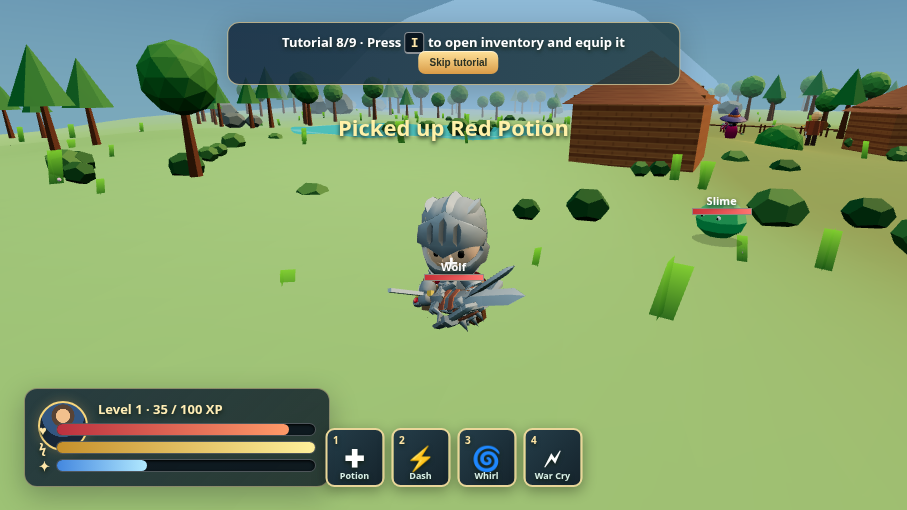
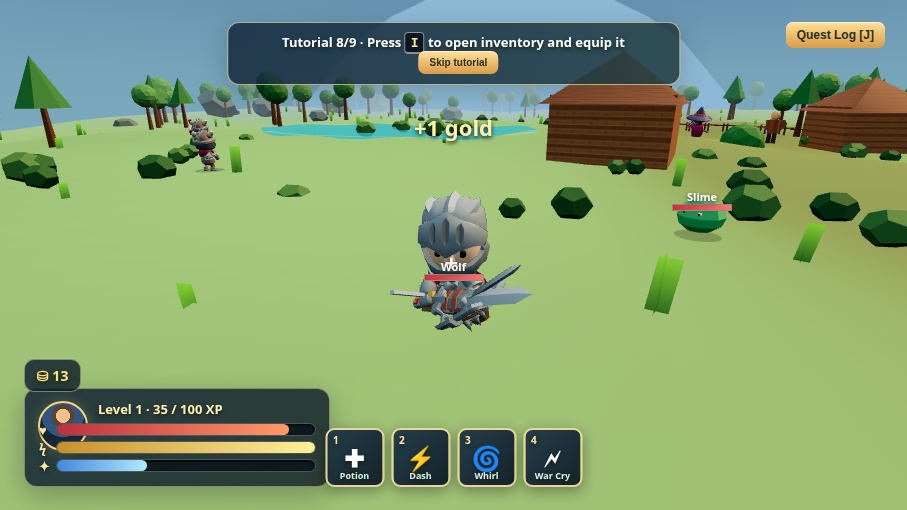
qa: M3 proof section and shop/quest HUD screenshots

diff --git a/qa/M1_PROOF.md b/qa/M1_PROOF.md
@@ -53,3 +53,29 @@ All tests ran against `dist` on the isolated local port `8701`, using `/usr/bin/
 ## Screenshots
 
 - [Combat with War Cry + Whirlwind, cooldown UI, stagger stars — 907×510](screenshots/combat-907.png)
+
+---
+
+# Milestone 3 — progression & economy (appended proof)
+
+## Delivered
+
+- **Merchant shop**: new NPC *Merchant Odessa* at a hand-built market stall (counter, four posts, tilted red awning, wares) beside the west cabin (−15.5, 9). `E` within 3.4m opens a shop panel in the inventory visual style. **Buy**: Red Potion 15g, Sunsteel Sword 120g, Tower Shield 80g (blocked hits deal 2 dmg instead of 3), Vale Armor Mk II 100g (+25 max HP, auto-equips). **Sell**: any inventory item at 40% of value (potion 6g, Iron Sword 16g, Sunsteel 48g…); equipped last-copy weapon is protected. Fully mouse-driven; closes via button, `I`/`Tab`, `Esc`, or `Backspace`.
+- **Quest system** (post-tutorial loop): 5 chained quests auto-started after the tutorial — Q1 *Pest Control* (5 Slimes → 30g+40XP), Q2 *Wolf Pack* (3 Wolves → 50g+80XP), Q3 *Bone Collector* (2 Skeletons → 60g+100XP; 2 new skeleton spawns added on the east side at (34,−26)/(39,−20)), Q4 *The Alpha* (Alpha Wolf → 150g+200XP + "Title unlocked: WOLFSBANE" toast), Q5 *Ready for the Depths* (reach level 5 → 100g + "The cave entrance rumbles..." M4 teaser). Kills auto-tracked; live progress in the top HUD bar ("Pest Control 3/5"); completed quest → return to Mentor Arlen and press `E` to claim, next quest starts. Quest log panel on `J` / HUD "Quest Log" button with complete/active/locked states. Quest state, gold, shield and armor persist in the save.
+- **Economy**: all mobs drop 1–3 coins (boss 5); coins convert to gold on pickup; gold shown in a dedicated HUD chip, inventory header and shop header; potions heal 40; every item tooltip shows its sell value.
+- **Level curve**: XP need = level×100; each level +15 max HP (recomputed via `calcMaxHp`, armor bonus stacks) and +1 base damage on all attacks incl. whirlwind; capped at level 10.
+- **Debug hooks extended**: `openShop()`, `grantGold(n)`, `setQuest(id)`, `claimQuest()`; `getState()` now exposes `gold`, `maxHp`, `quest {id, progress, target, done, name}`, `merchant {x,z}` and `mentor {x,z}`.
+
+## Required production-build verification (sequential, shared port 8701)
+
+| Command | Exit code | Evidence |
+| --- | ---: | --- |
+| `npm run build` | 0 | bundled production build (650.8kb JS), dist 13M < 20MB |
+| `node tests/e2e.mjs` | 0 | all M1+M2 checks + M3: buying potion −15g and +1 item, selling potion +6g (40%) and −1 item, Backspace closes shop, `setQuest(1)` then debug slime kill → progress 1, 5 kills → done, `E` at mentor claims +30g and chain advances to Wolf Pack, quest id + gold survive reload |
+| `node tests/viewport.mjs` | 0 | all 10 viewport dimensions, canvas coverage ≥98% |
+| `node tests/soak.mjs` | 0 | 120s accelerated simulation ≥30fps, particles ≤64, entities bounded (≤16 incl. 2 new skeletons) |
+
+## Screenshots
+
+- [Shop panel open at Merchant Odessa — 907×510](screenshots/shop-907.png)
+- [Quest HUD "Wolf Pack 0/3" + gold chip in world — 907×510](screenshots/quest-hud-907.png)
